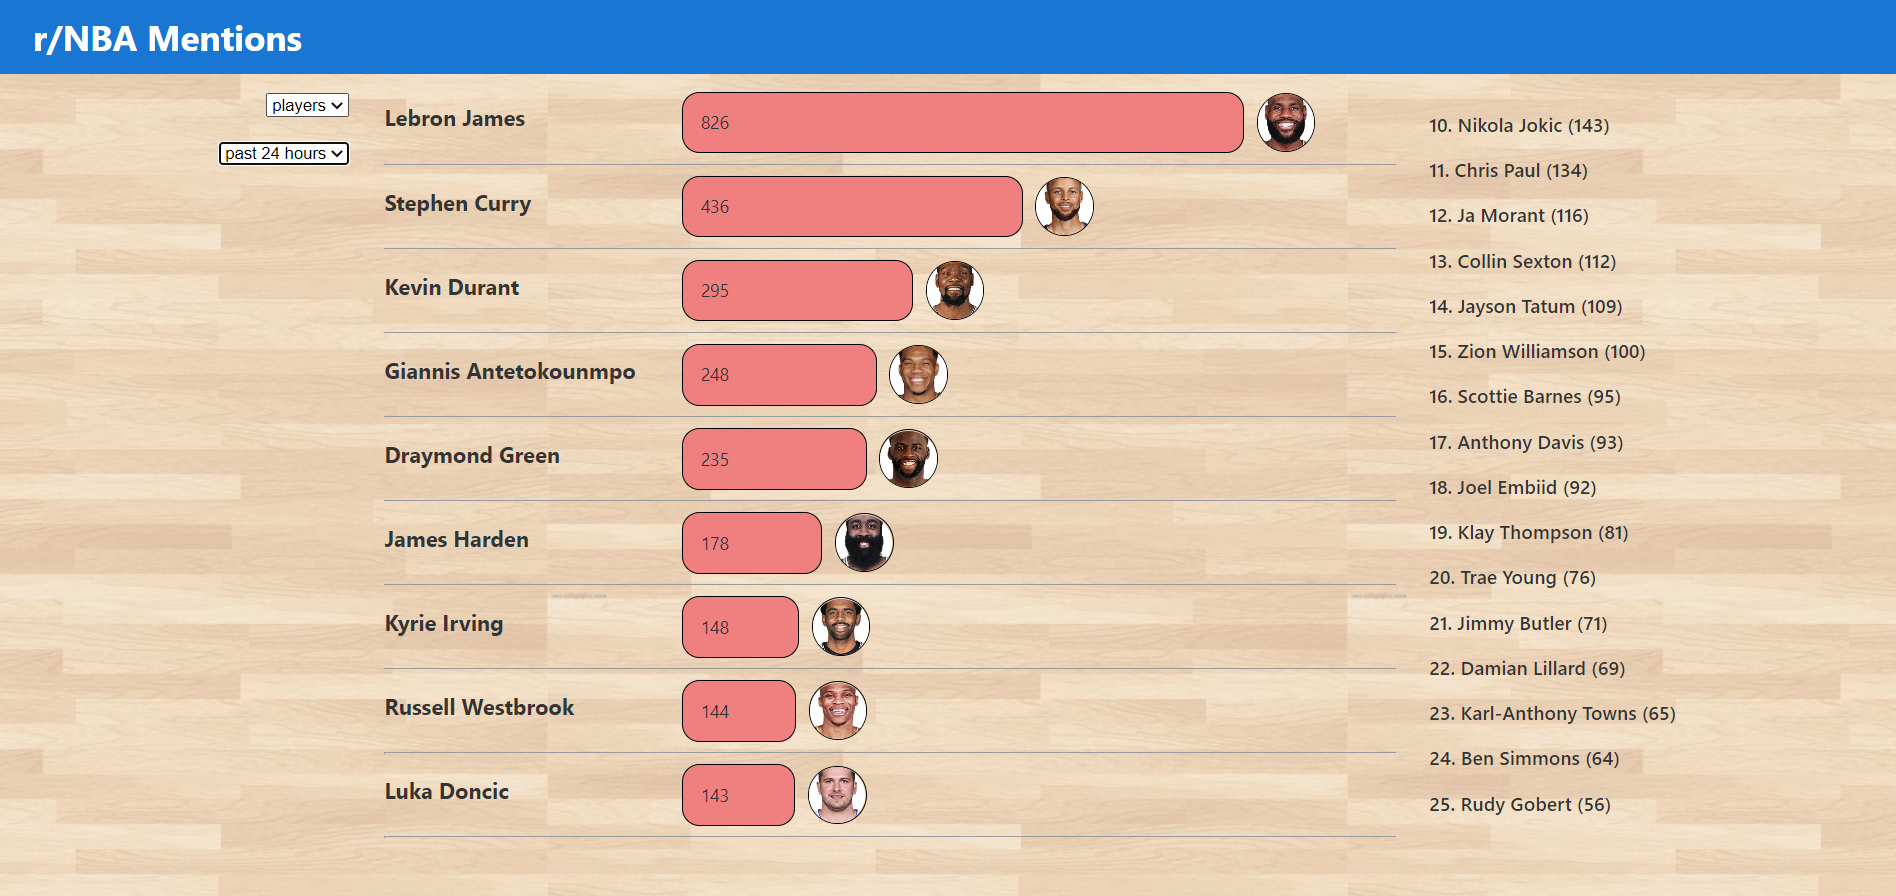
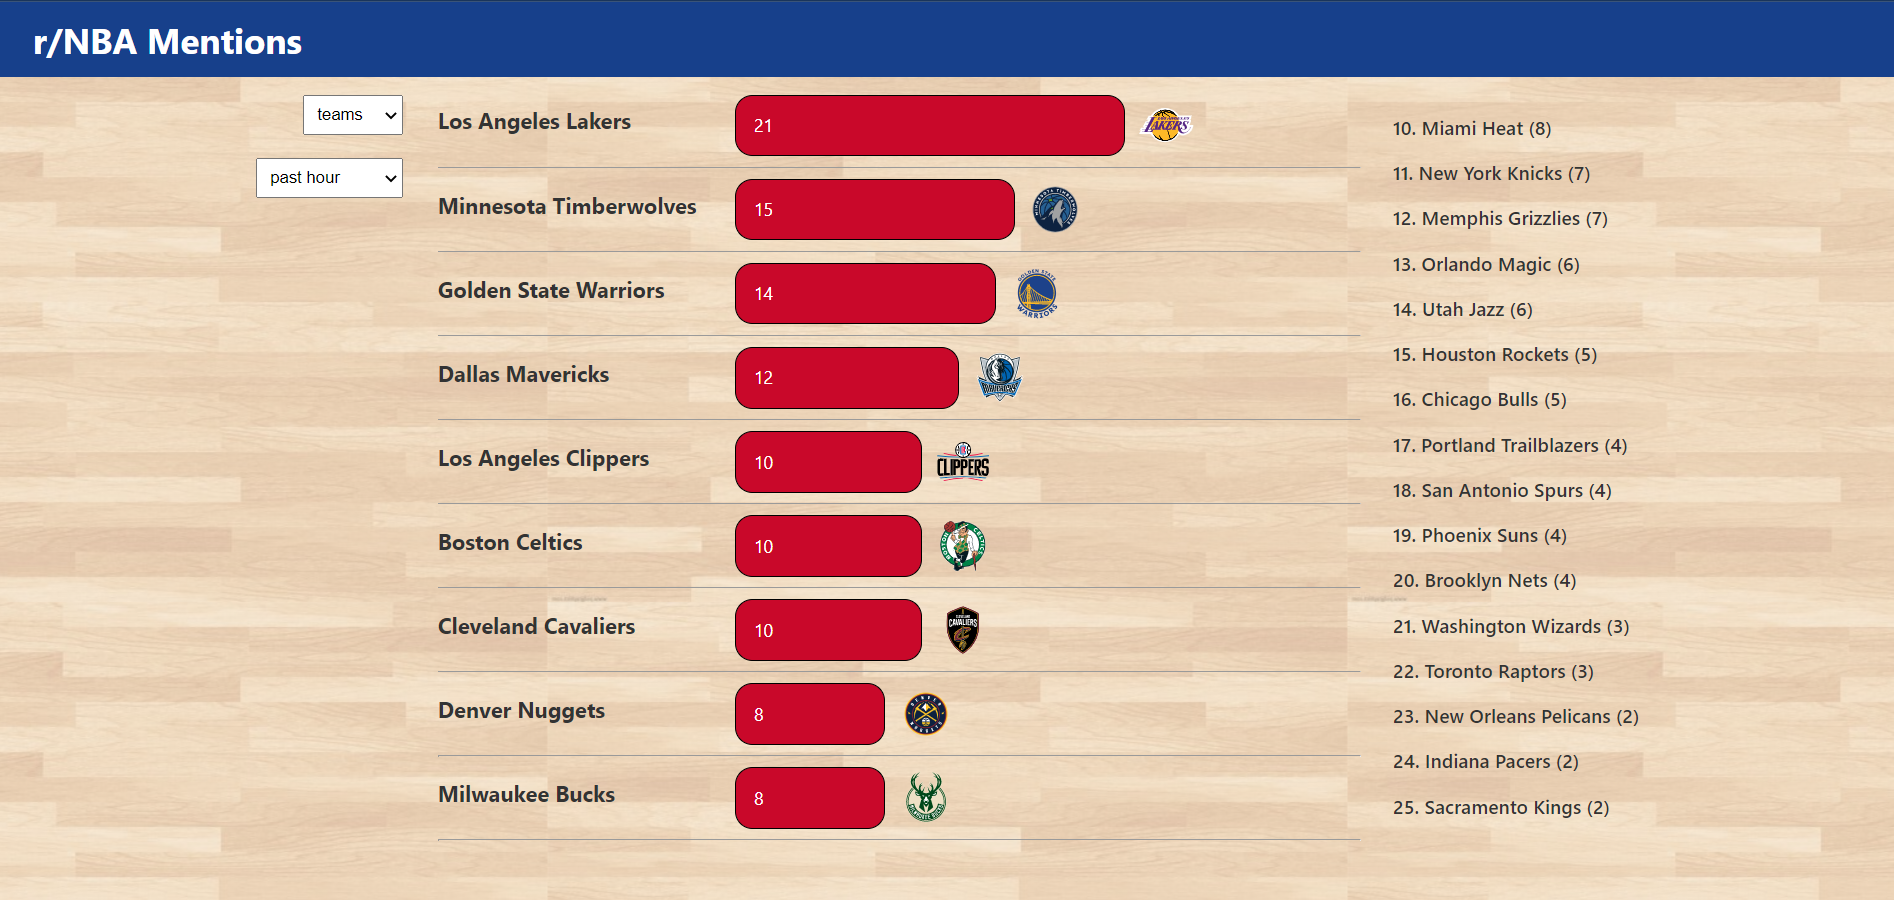
colors

diff --git a/src/app/app.component.less b/src/app/app.component.less
@@ -15,7 +15,7 @@
     height: 60px;
     display: flex;
     align-items: center;
-    background-color: #1976d2;
+    background-color: #17408B;
     color: white;
 
     p {
@@ -44,6 +44,10 @@
             flex-grow: 1;
             text-align: right;
             margin-bottom: 1em;
+
+            select {
+                padding: 0.5em;
+            }
         }
 
         #chart {
@@ -84,13 +88,14 @@
                         width: 100%;
 
                         .mentions-bar {
-                            background-color: lightcoral;
+                            background-color: #C9082A;
                             border-radius: 1em;
                             border: 1px solid black;
                             justify-content: center;
 
                             p {
                                 margin-left: 1em;
+                                color: white;
                             }
                         }
 
